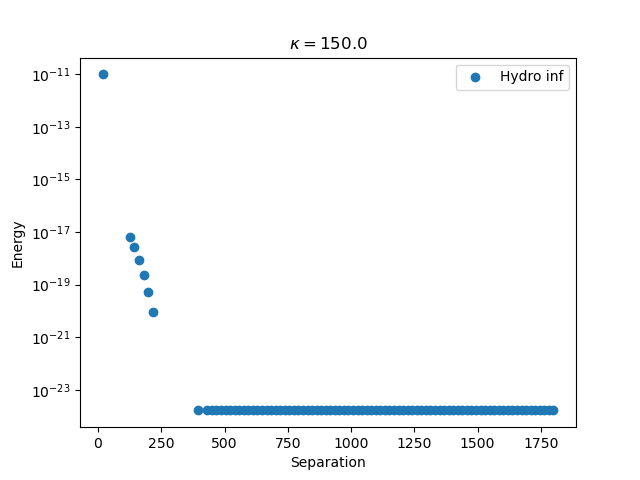
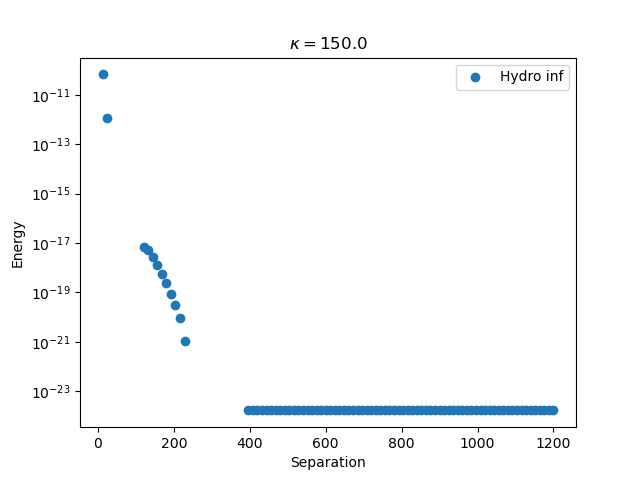
zooming in more

diff --git a/solver_rec.py b/solver_rec.py
@@ -14,7 +14,7 @@ tol = 1.49012e-08
 A_idx = int(sys.argv[1])
 K = float(sys.argv[2])
 
-As = np.linspace(0, 4*K, 101)[1:]
+As = np.linspace(0, 2*K, 101)[1:]
 
 N = float(sys.argv[3])
 NU = int(sys.argv[4])
